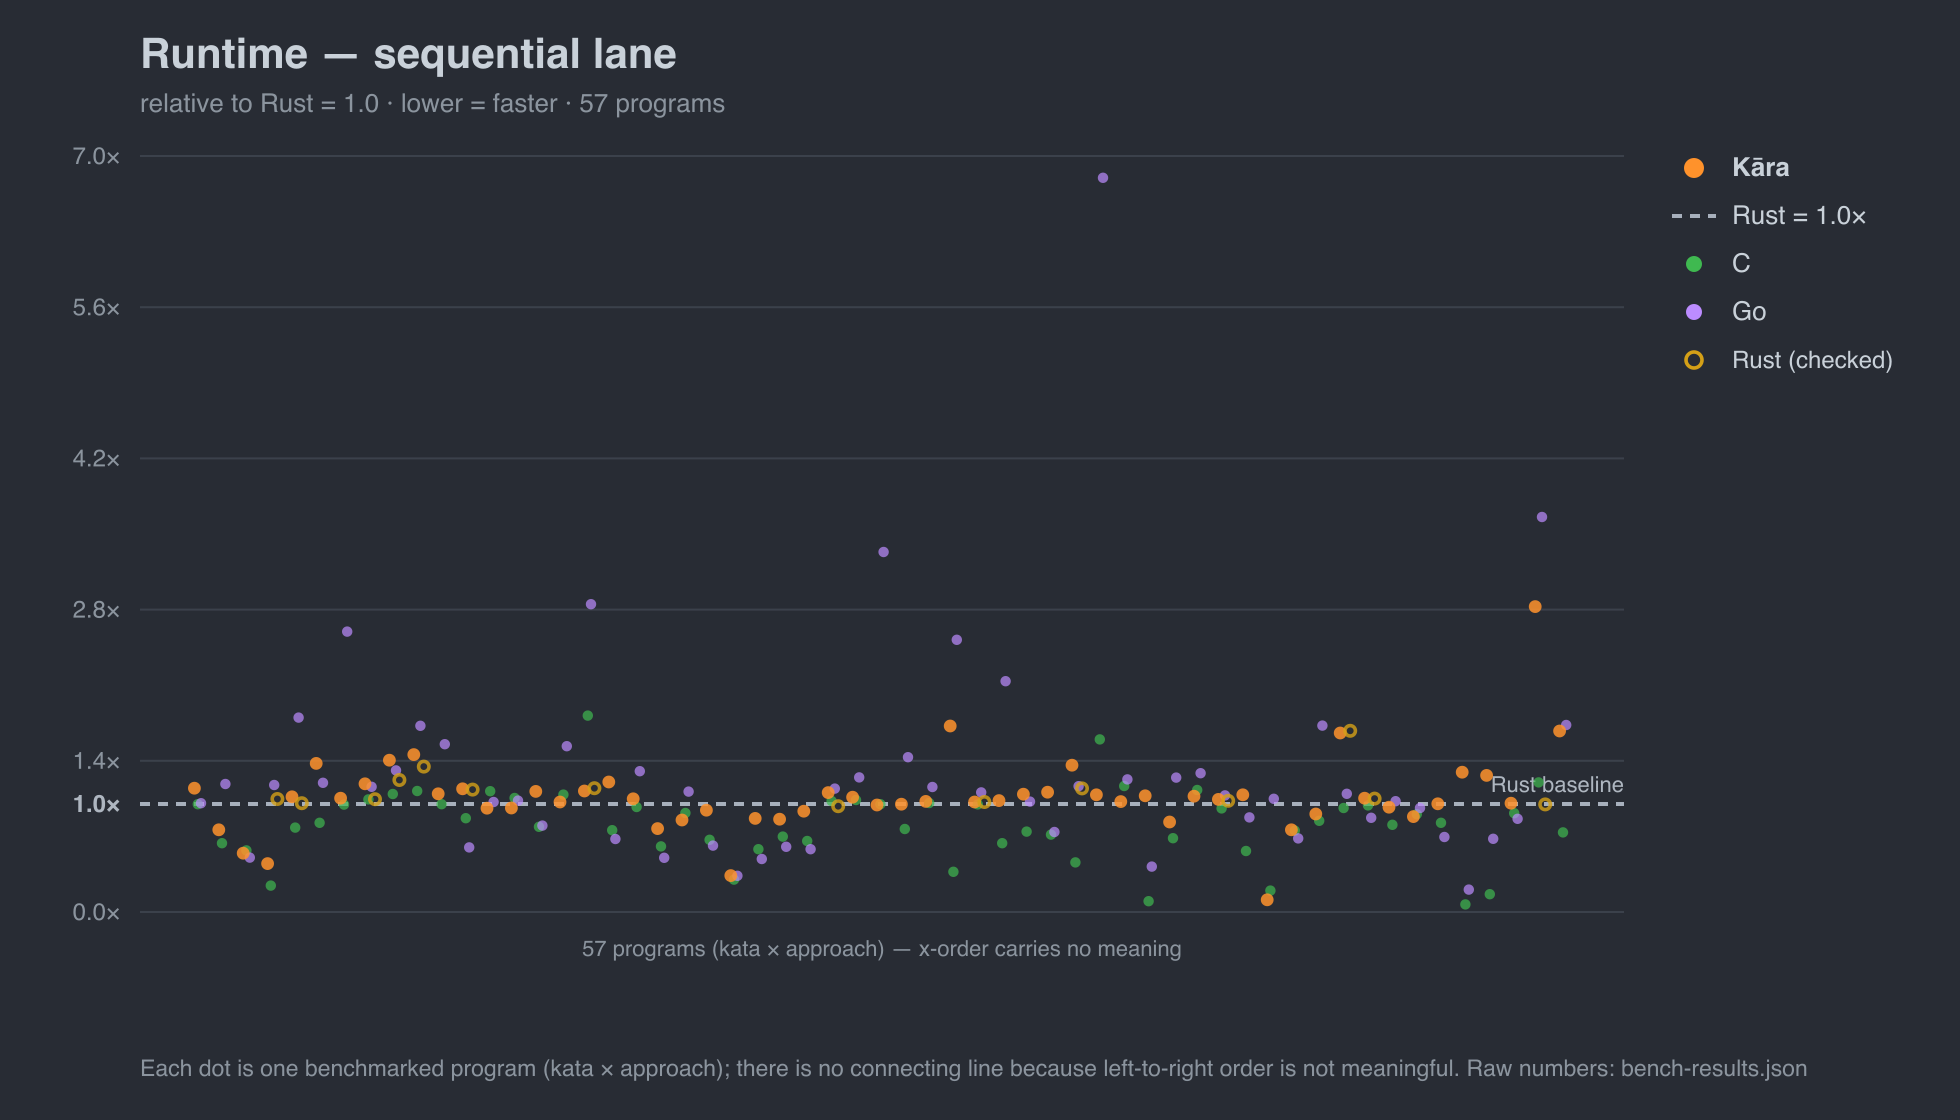
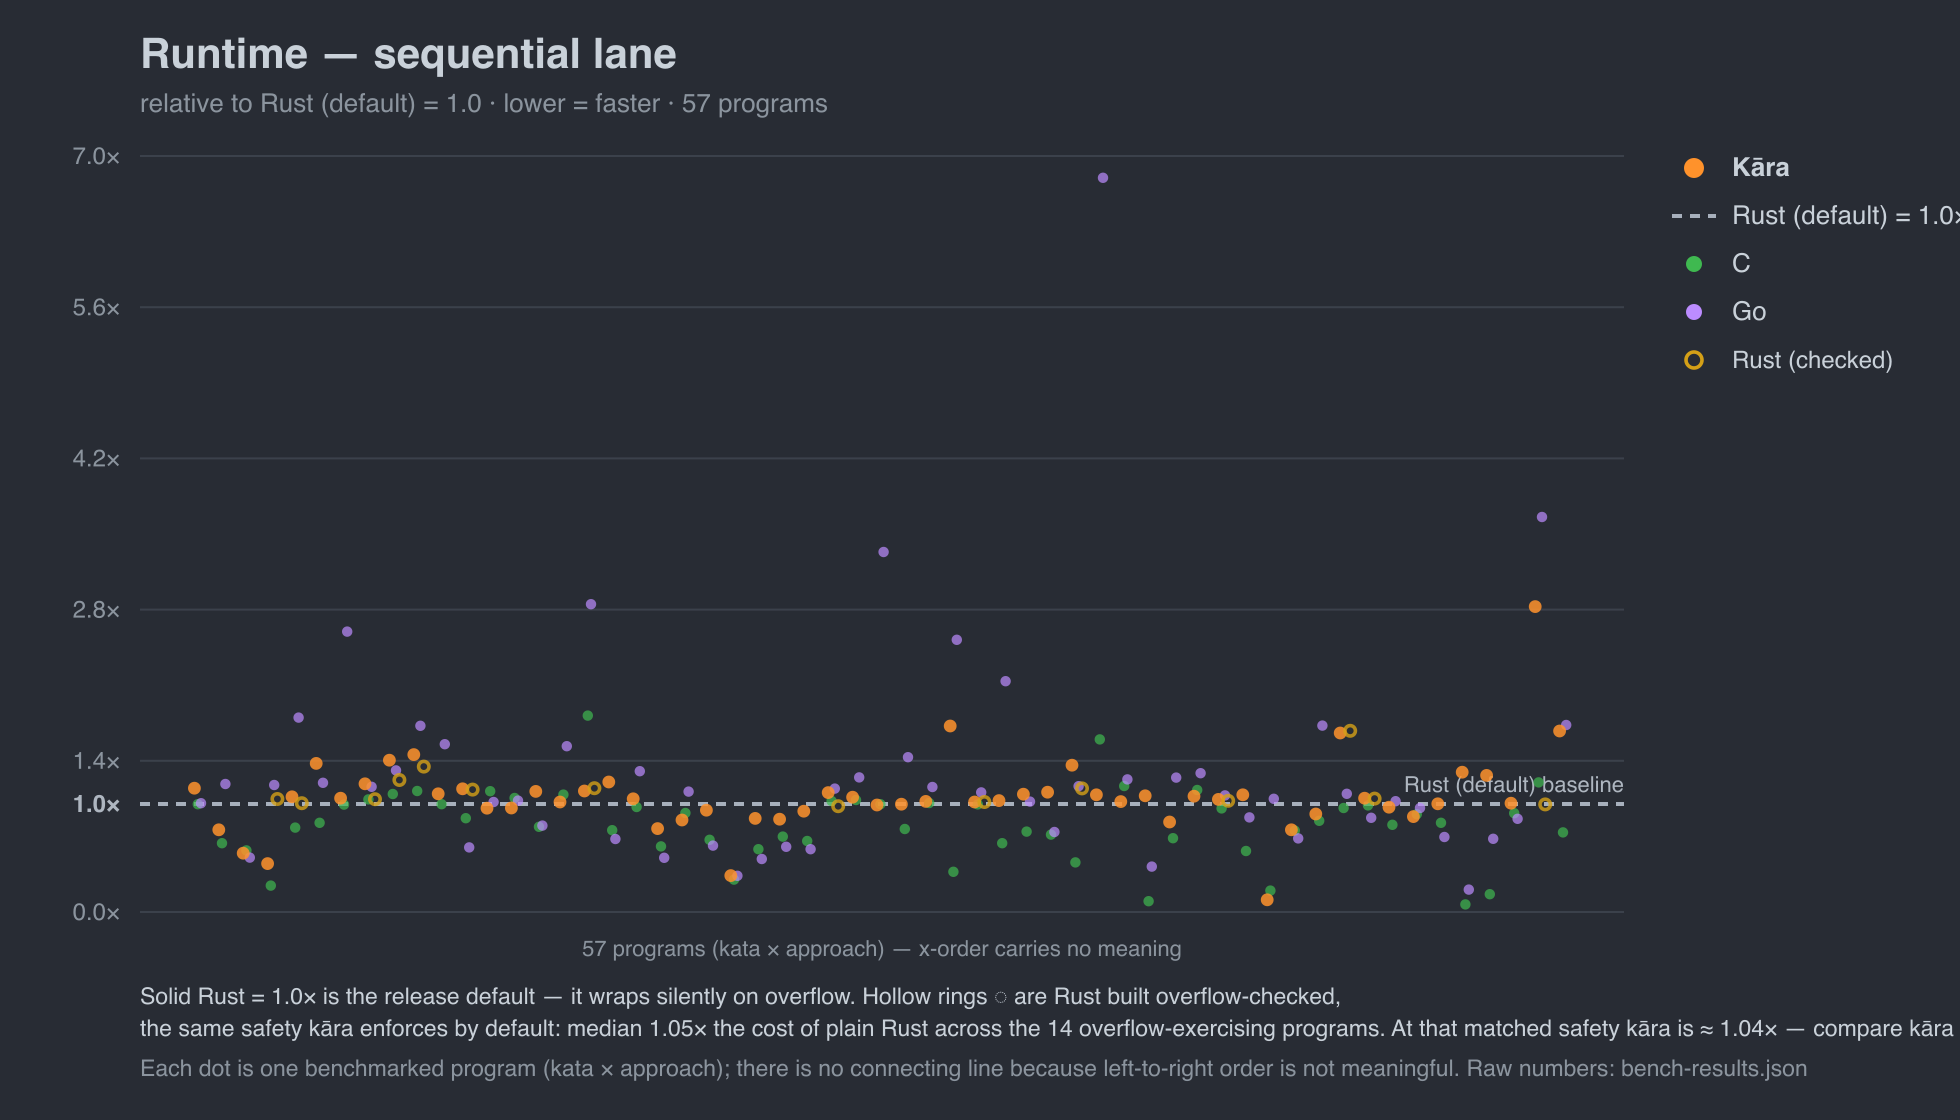
bench: clarify the overflow-checked Rust lane in graphs + prose
Make the runtime-seq chart legible to a reader who doesn't know what
"_ovf" means, and stop overstating the safety story:

- bench-graph.py: relabel the Rust lanes contextually — "Rust (default)"
  vs "Rust (checked)" on the runtime-seq chart (where the overflow-checked
  twin is actually overlaid), bare "Rust" elsewhere. Add a data-driven
  footnote that spells out the contract (default wraps silently; checked
  traps like Kāra) and quantifies the median safety tax + Kāra's gap at
  matched safety, computed live from the plotted points.
- README/BENCHMARKS: replace "the Rust=1.0 line is *unsafe* Rust" with the
  accurate framing — release-default wrapping is defined behavior, not UB;
  a wrong value where Kāra would trap. "unsafe" collides with Rust's
  reserved meaning and invites (correct) skepticism.

Only runtime-seq.{svg,png} change; the other charts are byte-identical.

diff --git a/scripts/bench-graph.py b/scripts/bench-graph.py
@@ -30,6 +30,7 @@ import argparse
 import json
 import math
 import os
+import statistics
 import sys
 
 # Language presentation order + colors. kara first (highlighted), then the
@@ -58,6 +59,11 @@ COLOR = {
     # Goldenrod reads as a Rust variant without colliding with the gray baseline.
     "rust_ovf": "#d4a017",
 }
+# The solid "Rust" line is the release default (overflow-checks OFF -- wraps
+# silently). "rust_ovf" is the equal-safety twin (overflow-checks=on) that
+# matches kāra's default trap-on-overflow contract; it reads "overflow-checked"
+# rather than the cryptic "_ovf" so a lay reader sees what it is. The runtime
+# chart footnote (render_dots) spells out the contract and quantifies the tax.
 LABEL = {"kara": "Kāra", "rust": "Rust", "c": "C", "go": "Go",
          "rust_ovf": "Rust (checked)"}
 
@@ -346,6 +352,14 @@ def render_dots(progs, baseline, title, unitnote, langs, yscale, opt_langs=()):
                 ymax_data = max(ymax_data, r)
                 ymin_data = min(ymin_data, r)
 
+    # When the equal-safety Rust overlay rides on this chart, qualify the baseline
+    # as "Rust (default)" so the legend reads as the pair "Rust (default)" vs
+    # "Rust (checked)". On charts with no checked twin we keep the bare "Rust" --
+    # "(default)" there would only prompt "default as opposed to what?".
+    lab = dict(LABEL)
+    if "rust" in lab and any(opt_series[l] for l in opt_langs):
+        lab["rust"] = "Rust (default)"
+
     def X(i):
         if n == 1:
             return ml + pw / 2
@@ -393,7 +407,7 @@ def render_dots(progs, baseline, title, unitnote, langs, yscale, opt_langs=()):
     scale_note = " · log scale" if yscale == "log" else ""
     s.append(f'<text x="{ml}" y="34" font-size="21" font-weight="700" fill="{FG}">{esc(title)}</text>')
     s.append(f'<text x="{ml}" y="56" font-size="13" fill="{MUTED}">'
-             f'relative to {LABEL[baseline]} = 1.0 · {esc(unitnote)} · {n} programs{scale_note}</text>')
+             f'relative to {lab[baseline]} = 1.0 · {esc(unitnote)} · {n} programs{scale_note}</text>')
 
     for t in gridvals:
         y = Y(t)
@@ -405,7 +419,7 @@ def render_dots(progs, baseline, title, unitnote, langs, yscale, opt_langs=()):
         s.append(f'<text x="{ml-10}" y="{y+4:.1f}" font-size="12" text-anchor="end" '
                  f'fill="{DIM2 if is_base else MUTED}"{wt}>{fmt(t)}</text>')
     s.append(f'<text x="{ml+pw}" y="{Y(1.0)-6:.1f}" font-size="11" text-anchor="end" '
-             f'fill="{DIM2}">{LABEL[baseline]} baseline</text>')
+             f'fill="{DIM2}">{lab[baseline]} baseline</text>')
 
     # x ticks only when sparse enough to label; otherwise just an axis line
     if n <= 30:
@@ -460,16 +474,40 @@ def render_dots(progs, baseline, title, unitnote, langs, yscale, opt_langs=()):
         if lang == baseline:
             s.append(f'<line x1="{lx}" y1="{yy}" x2="{lx+22}" y2="{yy}" stroke="{DIM}" '
                      f'stroke-width="2" stroke-dasharray="5 4"/>')
-            disp = f"{LABEL[lang]} = 1.0×"
+            disp = f"{lab[lang]} = 1.0×"
         elif lang in opt_langs:
             s.append(f'<circle cx="{lx+11}" cy="{yy}" r="4" fill="none" '
                      f'stroke="{COLOR[lang]}" stroke-width="1.8"/>')
-            disp = LABEL[lang]
+            disp = lab[lang]
         else:
             s.append(f'<circle cx="{lx+11}" cy="{yy}" r="{5 if lang=="kara" else 4}" fill="{COLOR[lang]}"/>')
-            disp = LABEL[lang]
+            disp = lab[lang]
         s.append(f'<text x="{lx+30}" y="{yy+4}" font-size="{12 if lang in opt_langs else 13}" '
                  f'fill="{FG}" font-weight="{700 if lang=="kara" else 400}">{esc(disp)}</text>')
+
+    # Safety-contract footnote (runtime chart only). A reader can't be expected
+    # to know that the solid Rust baseline is the release default that WRAPS on
+    # overflow, while kāra traps by default -- so the matched-safety comparison
+    # is kāra vs the hollow rings, not kāra vs the line. Spell that out and
+    # quantify both ratios straight from the plotted data: the median tax Rust
+    # pays to turn its checks on (rust_ovf/rust), and where kāra lands against
+    # that equal-safety Rust (kara/rust_ovf). Only renders where the overlay has
+    # data, so non-overflow charts stay byte-identical.
+    if baseline == "rust" and "rust_ovf" in present_opt and "kara" in series:
+        ovf_ratios = [r for _, r in opt_series["rust_ovf"]]          # rust_ovf / rust
+        kara_vals = series["kara"]
+        matched = [kara_vals[i] / r for i, r in opt_series["rust_ovf"] if r > 0]
+        tax = statistics.median(ovf_ratios) if ovf_ratios else None
+        if tax is not None:
+            np = len(ovf_ratios)
+            m_txt = (f"At that matched safety kāra is ≈ {statistics.median(matched):.2f}×"
+                     if matched else "")
+            line1 = ("Solid Rust = 1.0× is the release default — it wraps silently on overflow. "
+                     "Hollow rings ◌ are Rust built overflow-checked,")
+            line2 = (f"the same safety kāra enforces by default: median {tax:.2f}× the cost of plain "
+                     f"Rust across the {np} overflow-exercising programs. {m_txt} — compare kāra to the rings.")
+            s.append(f'<text x="{ml}" y="{H-58}" font-size="11.5" fill="{FG}">{esc(line1)}</text>')
+            s.append(f'<text x="{ml}" y="{H-42}" font-size="11.5" fill="{FG}">{esc(line2)}</text>')
 
     cap_txt = ("Each dot is one benchmarked program (kata × approach); there is no connecting line "
                "because left-to-right order is not meaningful. Raw numbers: bench-results.json")

diff --git a/BENCHMARKS.md b/BENCHMARKS.md
@@ -19,9 +19,9 @@ compiled languages it would flatten everything; its numbers are in the per-kata
 READMEs and the JSON feed.
 
 **One baseline caveat, made explicit:** Kāra checks integer overflow by default;
-`rustc -O` **silently wraps**. So the gray `Rust = 1.0` baseline is *unsafe* Rust —
-on a workload that exercises overflowing arithmetic it is doing strictly less work
-than Kāra. The runtime chart therefore overlays a goldenrod **Rust (checked)** ring
+`rustc -O` **silently wraps** — defined behavior (not UB), but a wrong value where
+Kāra would trap. So the gray **Rust (default)** baseline is doing strictly less work
+than Kāra on a workload that exercises overflowing arithmetic. The runtime chart therefore overlays a goldenrod **Rust (checked)** ring
 — `rustc -O -C overflow-checks=on`, the safety-matched build — on the katas where
 the two diverge. That is the apples-to-apples number. Across the corpus the overflow
 tax is the bulk of every apparent "Kāra is slower" gap: the worst offenders (#171

diff --git a/README.md b/README.md
@@ -10,7 +10,7 @@ Single-threaded, same algorithm in every language, native binaries (`karac build
 
 ![Runtime, sequential lane — relative to Rust](graphs/runtime-seq.png)
 
-Kāra's orange dots sit clustered around the Rust baseline, tracking C's green cloud closely. One thing to read deliberately: Kāra **checks integer overflow by default** and `rustc -O` **silently wraps**, so the gray `Rust = 1.0` line is *unsafe* Rust. The goldenrod **Rust (checked)** rings overlay `rustc -O -C overflow-checks=on` — the safety-matched build — on the katas where it differs, and Kāra's dots sit right on or below them: at *equal safety* the apparent gaps collapse to parity (the worst, #171 1.66× → 0.99×; #9 1.46× → 1.08×), and Kāra emits **fewer** instructions than safety-matched Rust on 16 collection/pointer kernels. What's left after equalizing safety is a few string-building kernels (~1.2×) and #1665's sort — and the chart shows those plainly too. See [BENCHMARKS.md](BENCHMARKS.md) for the full caveat.
+Kāra's orange dots sit clustered around the Rust baseline, tracking C's green cloud closely. One thing to read deliberately: Kāra **checks integer overflow by default** and `rustc -O` **silently wraps** — defined behavior, but a wrong value where Kāra would trap — so the gray **Rust (default)** baseline is doing strictly less work than Kāra on overflowing arithmetic. The goldenrod **Rust (checked)** rings overlay `rustc -O -C overflow-checks=on` — the safety-matched build — on the katas where it differs, and Kāra's dots sit right on or below them: at *equal safety* the apparent gaps collapse to parity (the worst, #171 1.66× → 0.99×; #9 1.46× → 1.08×), and Kāra emits **fewer** instructions than safety-matched Rust on 16 collection/pointer kernels. What's left after equalizing safety is a few string-building kernels (~1.2×) and #1665's sort — and the chart shows those plainly too. See [BENCHMARKS.md](BENCHMARKS.md) for the full caveat.
 
 ## Binary size
 